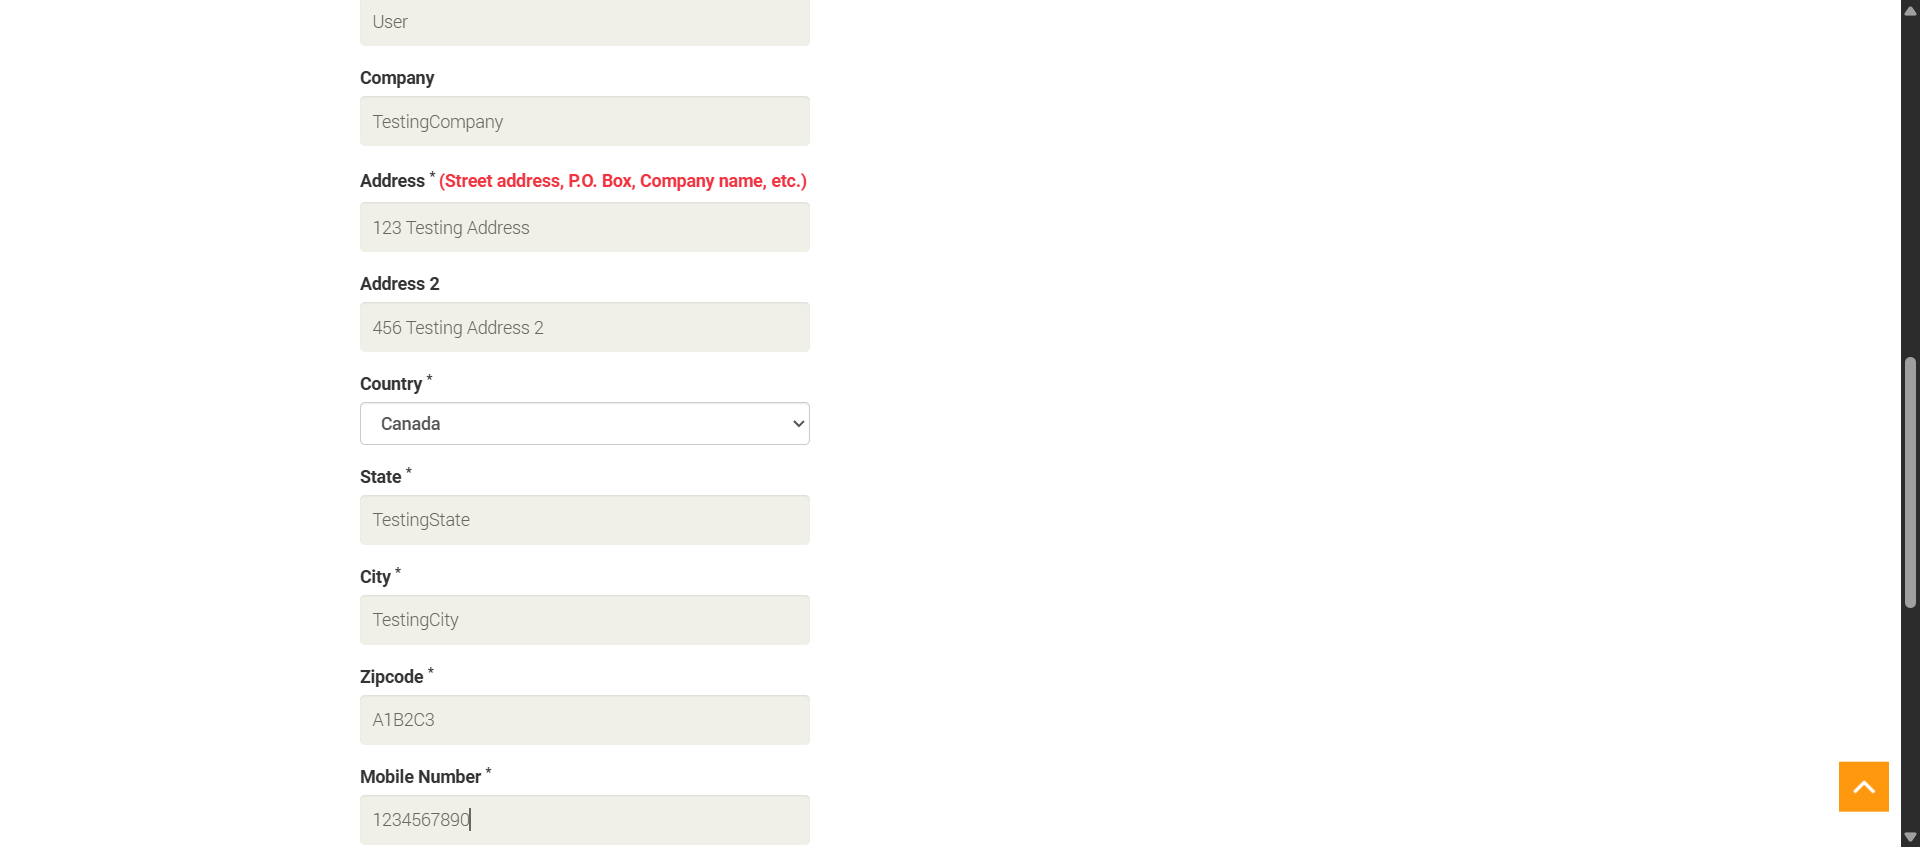
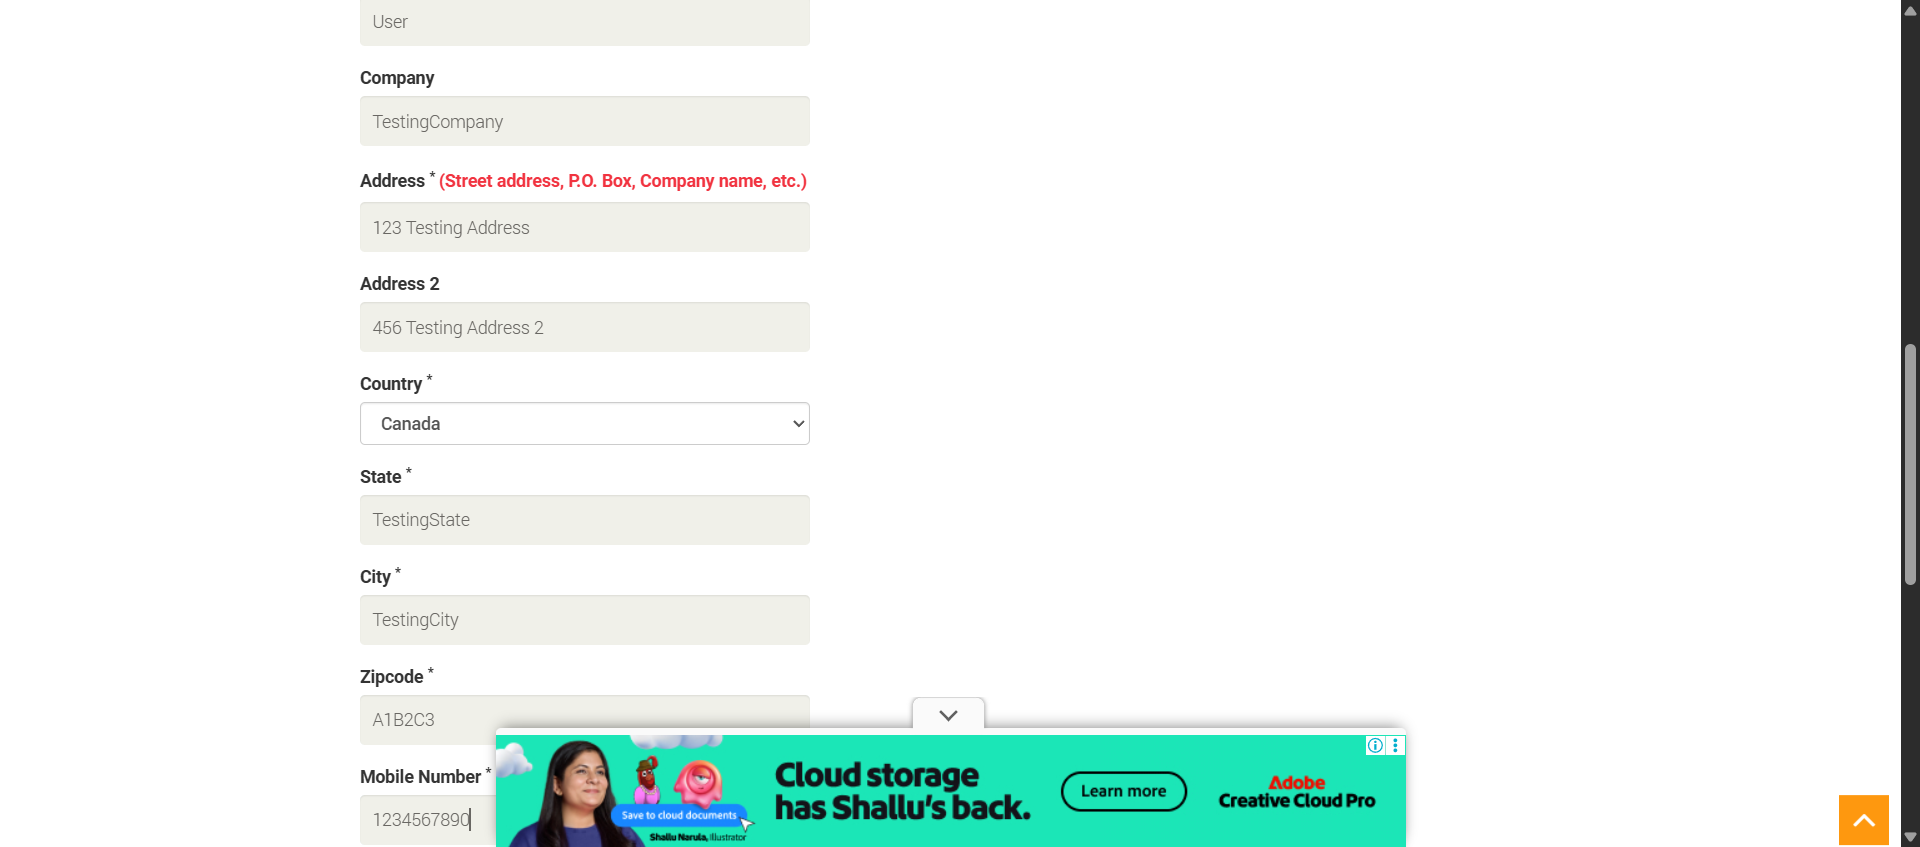
ad closing added

Changed region(s): [[0.25, 0.8288, 0.75, 1.0], [0.9375, 0.8902, 1.0, 1.0], [0.9688, 0.6753, 1.0, 0.706]]

diff --git a/app/src/test/java/org/example/AppTest.java b/app/src/test/java/org/example/AppTest.java
@@ -216,11 +216,20 @@ public class AppTest {
         deleteAccount.click();
         // Verify that 'ACCOUNT DELETED!' is visible and click 'Continue' button
         // Assertion: Ensure "ACCOUNT DELETED!" message is displayed, then click "Continue"
-        Assert.assertTrue(wait.until(ExpectedConditions.visibilityOfElementLocated(By.xpath("//b[text()='Account Deleted!']"))).isDisplayed(),"\"ACCOUNT DELETED!\" message is not displayed");
+        WebElement ad = wait.until(ExpectedConditions.visibilityOfElementLocated(By.xpath("//div[@id=\"card\"]")));
+        if(ad.isDisplayed()){
+            System.out.println("Ad displayed");
+            WebElement closeAd = wait.until(ExpectedConditions.visibilityOfElementLocated(By.xpath("//div[@id='dismiss-button']")));
+            closeAd.click();
+        }
+        else{
+            Assert.assertTrue(wait.until(ExpectedConditions.visibilityOfElementLocated(By.xpath("//b[text()='Account Deleted!']"))).isDisplayed(),"\"ACCOUNT DELETED!\" message is not displayed");
         WebElement continueBtn2 = wait.until(ExpectedConditions.visibilityOfElementLocated(By.xpath("//a[text()='Continue']")));
         takeScreenshot("testCase01");
         continueBtn2.click();
     }
+        }
+        
     @Test(enabled = false)
     public void testCase02() {
         // Placeholder for Test Case 02
